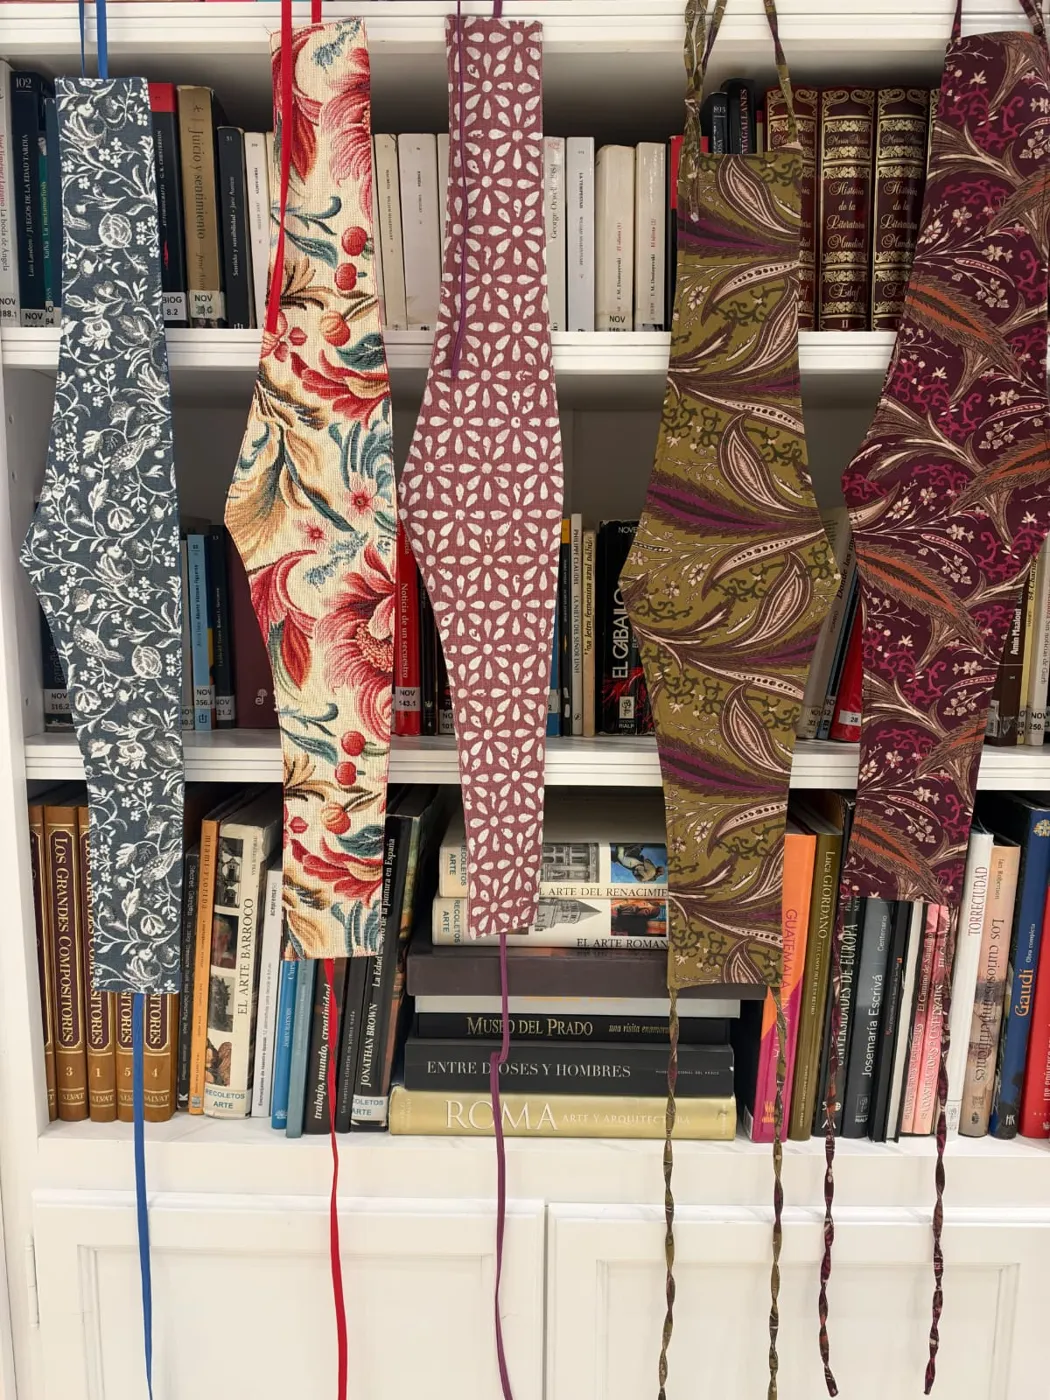
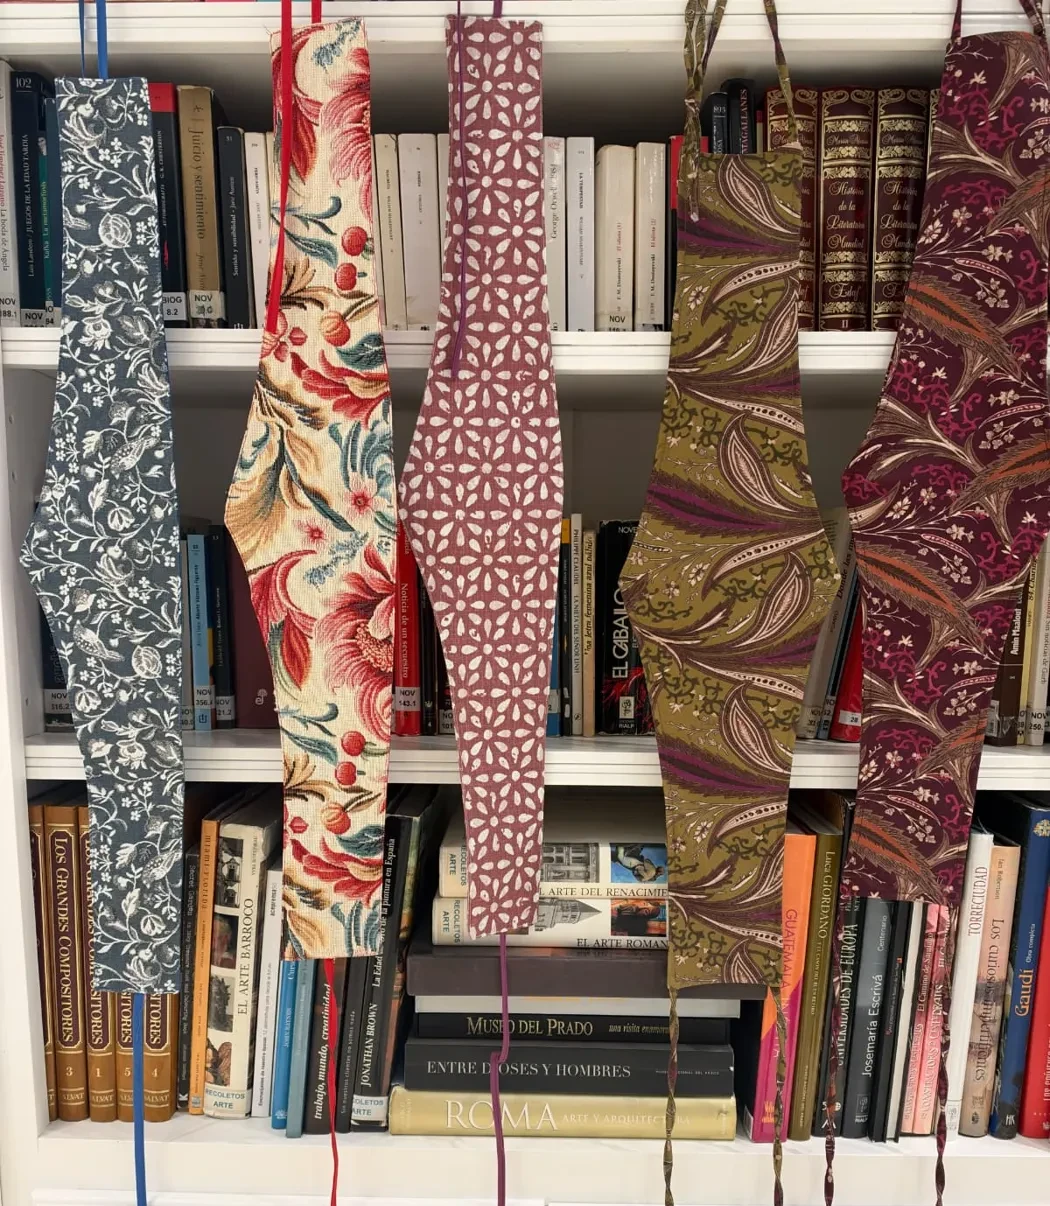
feat: simplify shop hero and fix product photos
The hero is now the poster on a plain ground, without the photo wall.
Product photos show uncropped and no longer swap on hover. Long and short
socks get their own photo sets, and the boys' pack offers its two
designs as variants.

diff --git a/src/lib/muestras.ts b/src/lib/muestras.ts
@@ -3,11 +3,11 @@ import type { ImageMetadata } from 'astro';
 const files = import.meta.glob<ImageMetadata>('../assets/muestras/*.webp', { eager: true, import: 'default' });
 
 export const slug = (s: string) =>
-  s.normalize('NFD').replace(/[̀-ͯ]/g, '').toLowerCase().trim().replace(/\s+/g, '-');
+  s.normalize('NFD').replace(/\p{Diacritic}/gu, '').toLowerCase().replace(/[^a-z0-9]+/g, '-').replace(/^-|-$/g, '');
 
-const bySlug = Object.fromEntries(Object.entries(files).map(([path, img]) => [path.split('/').pop()!.replace('.webp', ''), img.src]));
+const bySlug: Record<string, string> = Object.fromEntries(
+  Object.entries(files).map(([path, img]) => [path.split('/').pop()!.replace('.webp', ''), img.src]),
+);
 
 // Variants without their own close-up fall back to the product's first photo.
 export const specimen = (variant: string | null, fallback: string) => (variant && bySlug[slug(variant)]) || fallback;
-
-export const allSpecimens = Object.entries(bySlug).map(([name, src]) => ({ name, src }));
